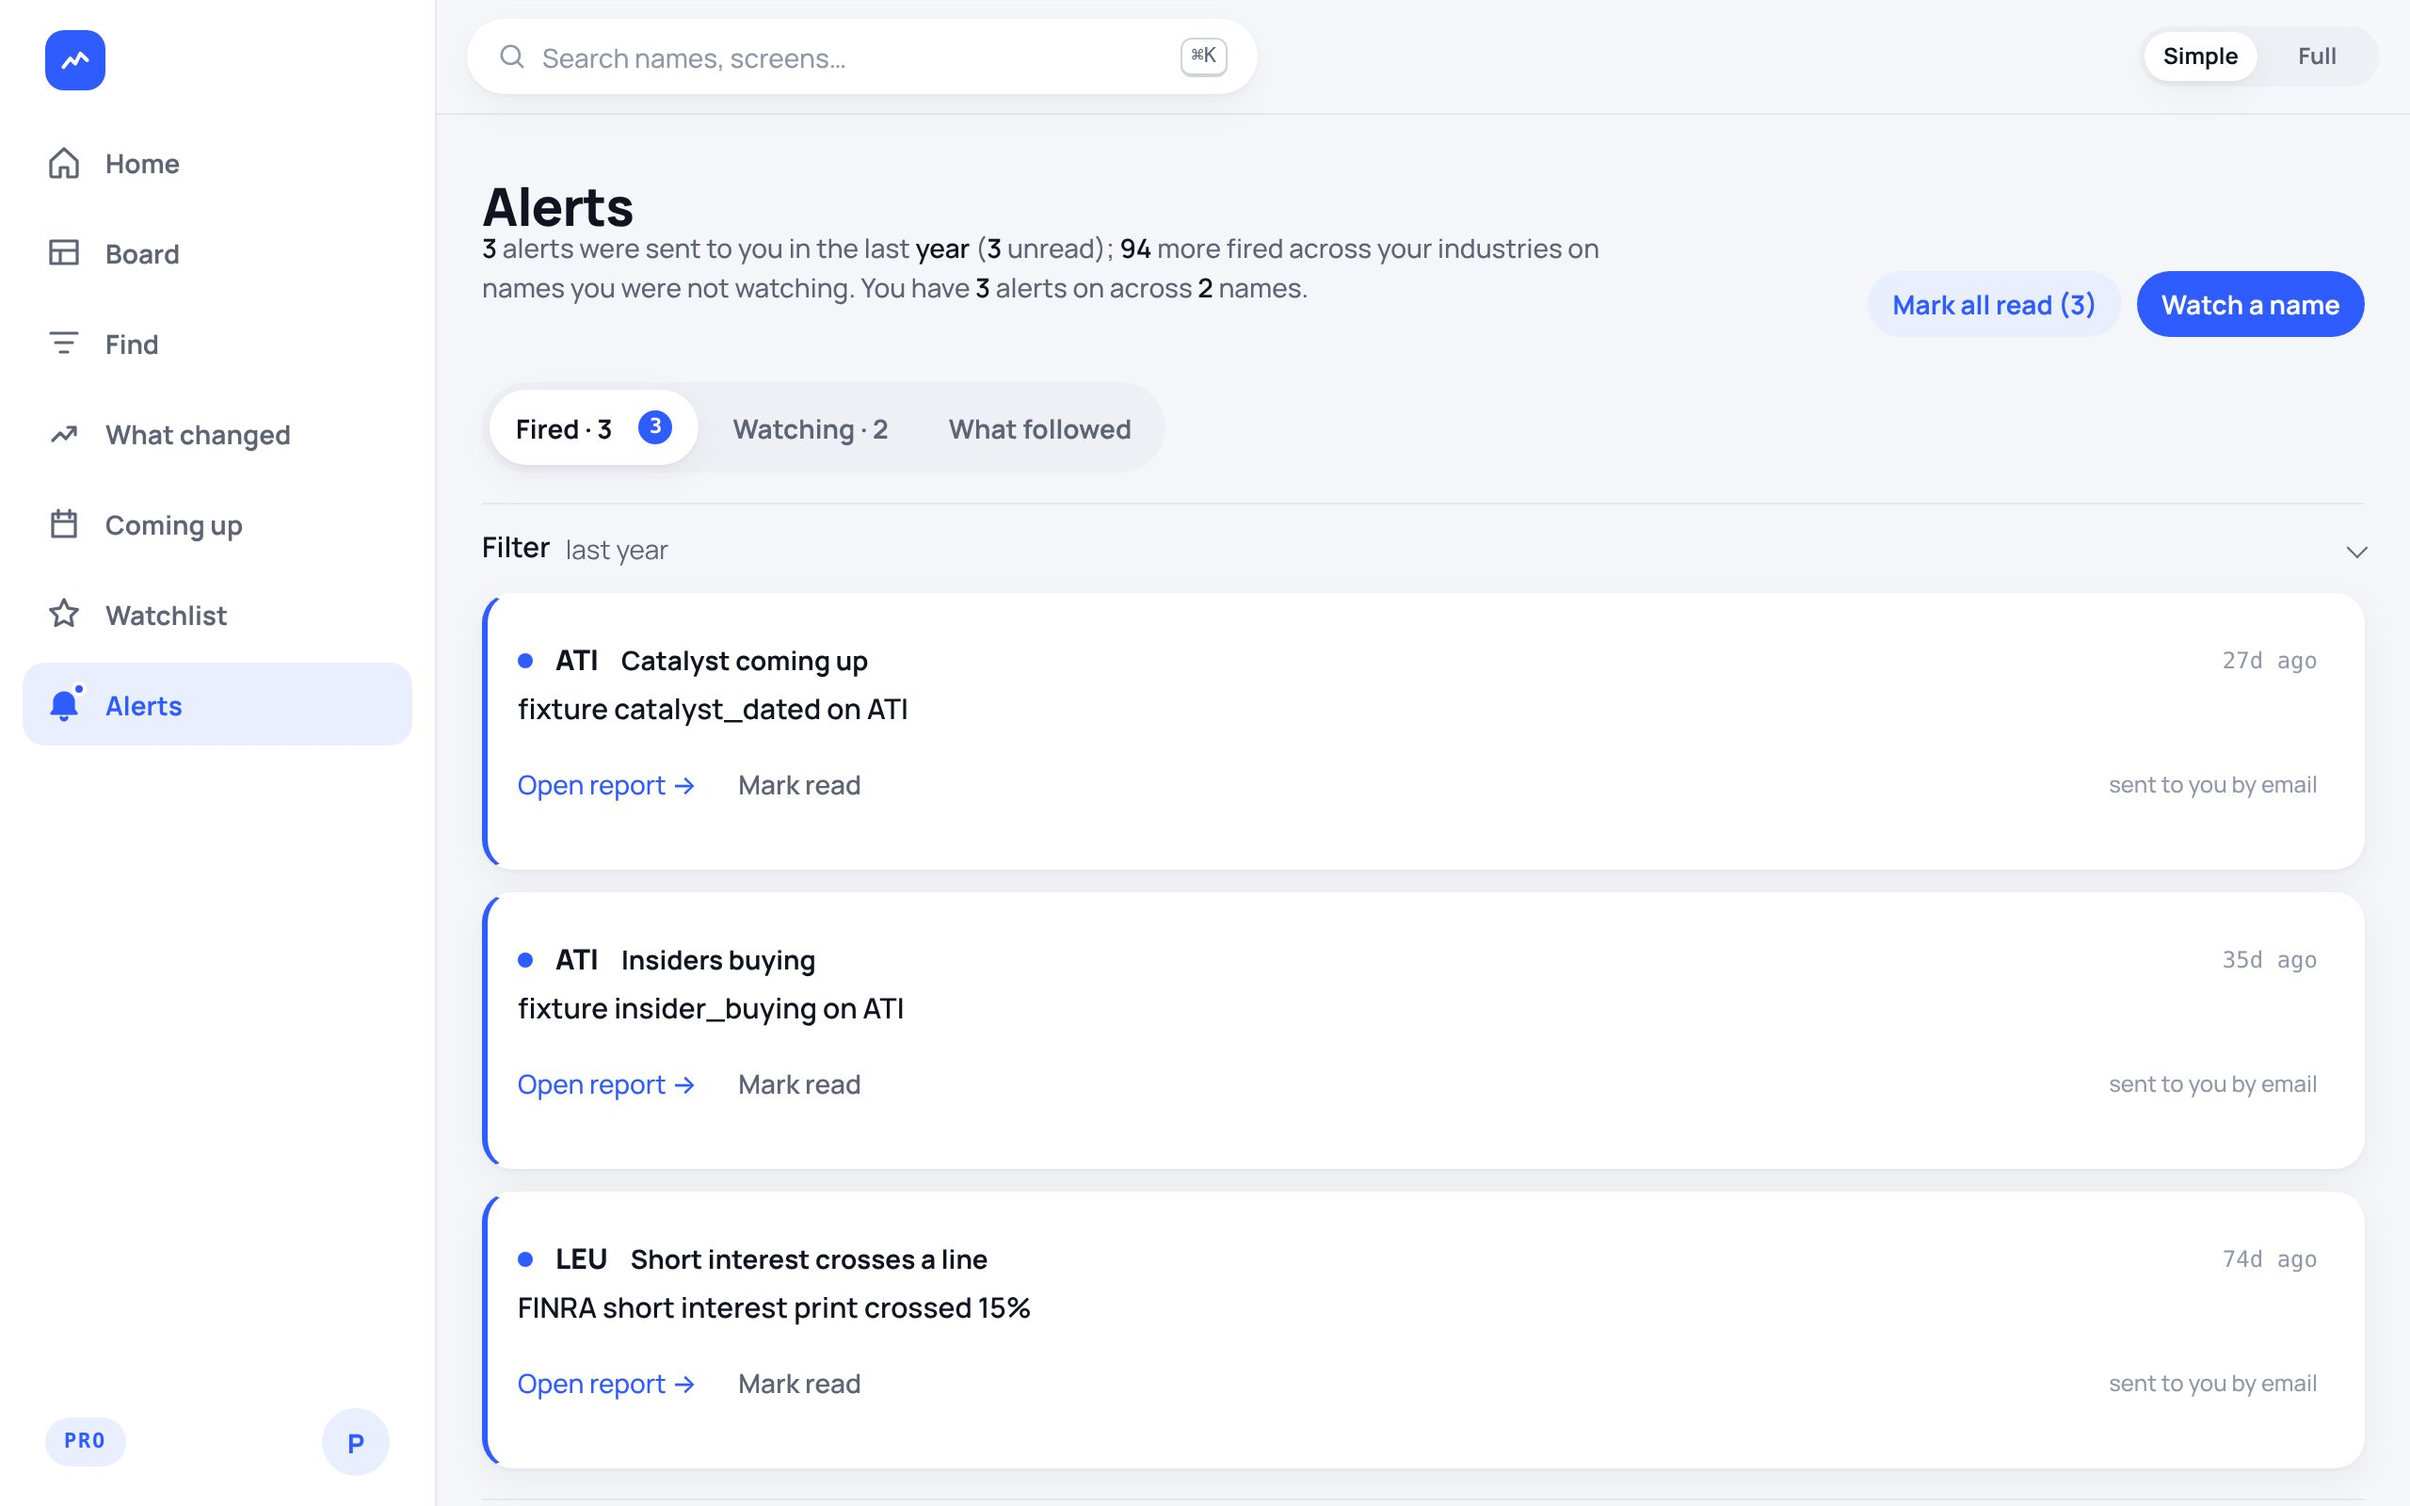
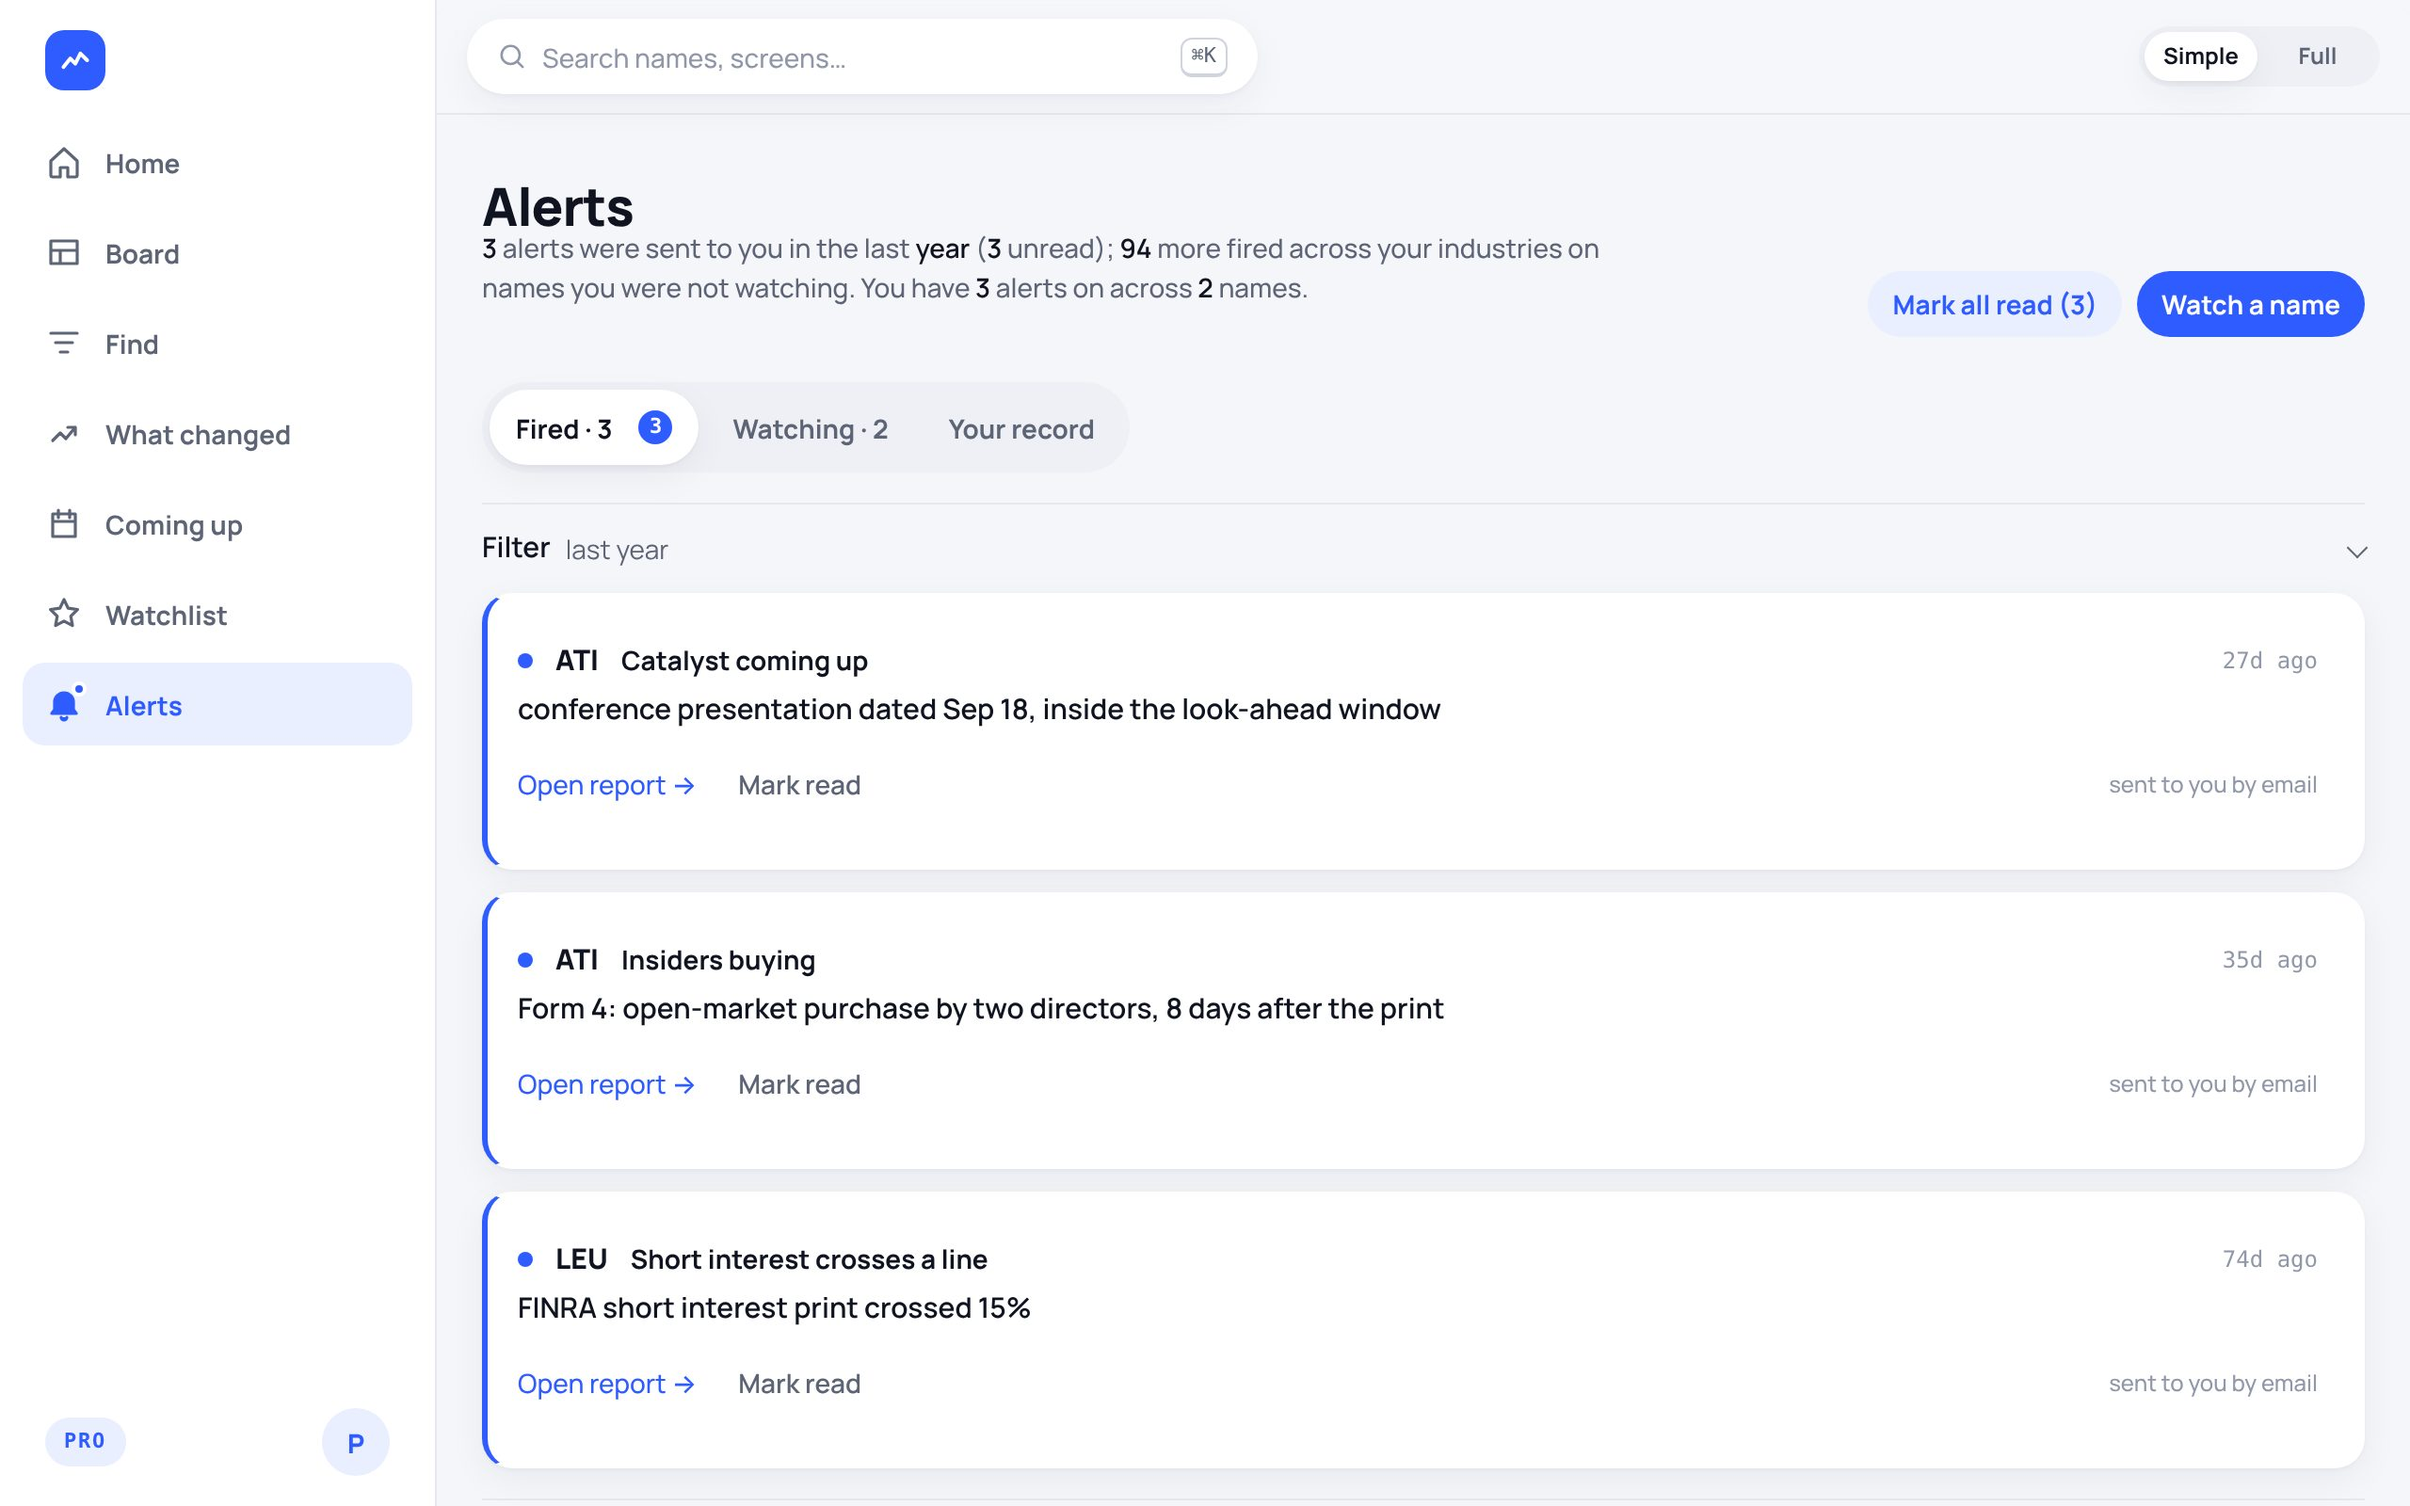
Tests present a client address per signup; landing alerts shot without placeholder text
The signup limiter is five per hour per client IP. test_v5 now gives each
test user its own X-Forwarded-For like test_product_v3 does, so both suites
run in one go against a long-lived dev server. The landing's alerts screen is
re-captured with detector-style alert wording instead of fixture placeholders.

Claude-Session: https://claude.ai/code/session_01Jarzy7CNmydc7gWyGYKy66

Changed region(s): [[0.2188, 0.6562, 0.5938, 0.6875], [0.2188, 0.4688, 0.5938, 0.5], [0.4062, 0.2812, 0.4688, 0.3125]]

diff --git a/tests/test_v5.py b/tests/test_v5.py
@@ -17,8 +17,12 @@ TALLY_KEYS = {"fired", "names", "measured", "moved_10", "moved_20", "industries"
 
 
 def _user(prefix, industries):
-    email = f"{prefix}{int(time.time() * 1000)}@example.com"
-    s, body = post("/signup", {"email": email, "password": PASSWORD})
+    stamp = int(time.time() * 1000)
+    email = f"{prefix}{stamp}@example.com"
+    # the signup limiter is five per hour per client IP (see test_product_v3):
+    # each test user presents its own address so the suite runs in one go
+    s, body = post("/signup", {"email": email, "password": PASSWORD},
+                   ip=f"10.5.{(stamp // 256) % 256}.{stamp % 256}")
     assert s == 200, body
     token = body["token"]
     psql(f"UPDATE users SET verified=TRUE WHERE email='{email}';")

diff --git a/tests/test_product_v3.py b/tests/test_product_v3.py
@@ -52,8 +52,8 @@ def get(path, token=None):
     return _call("GET", path, token=token)
 
 
-def post(path, body, token=None):
-    return _call("POST", path, body, token)
+def post(path, body, token=None, ip=None):
+    return _call("POST", path, body, token, ip)
 
 
 def psql(sql):
